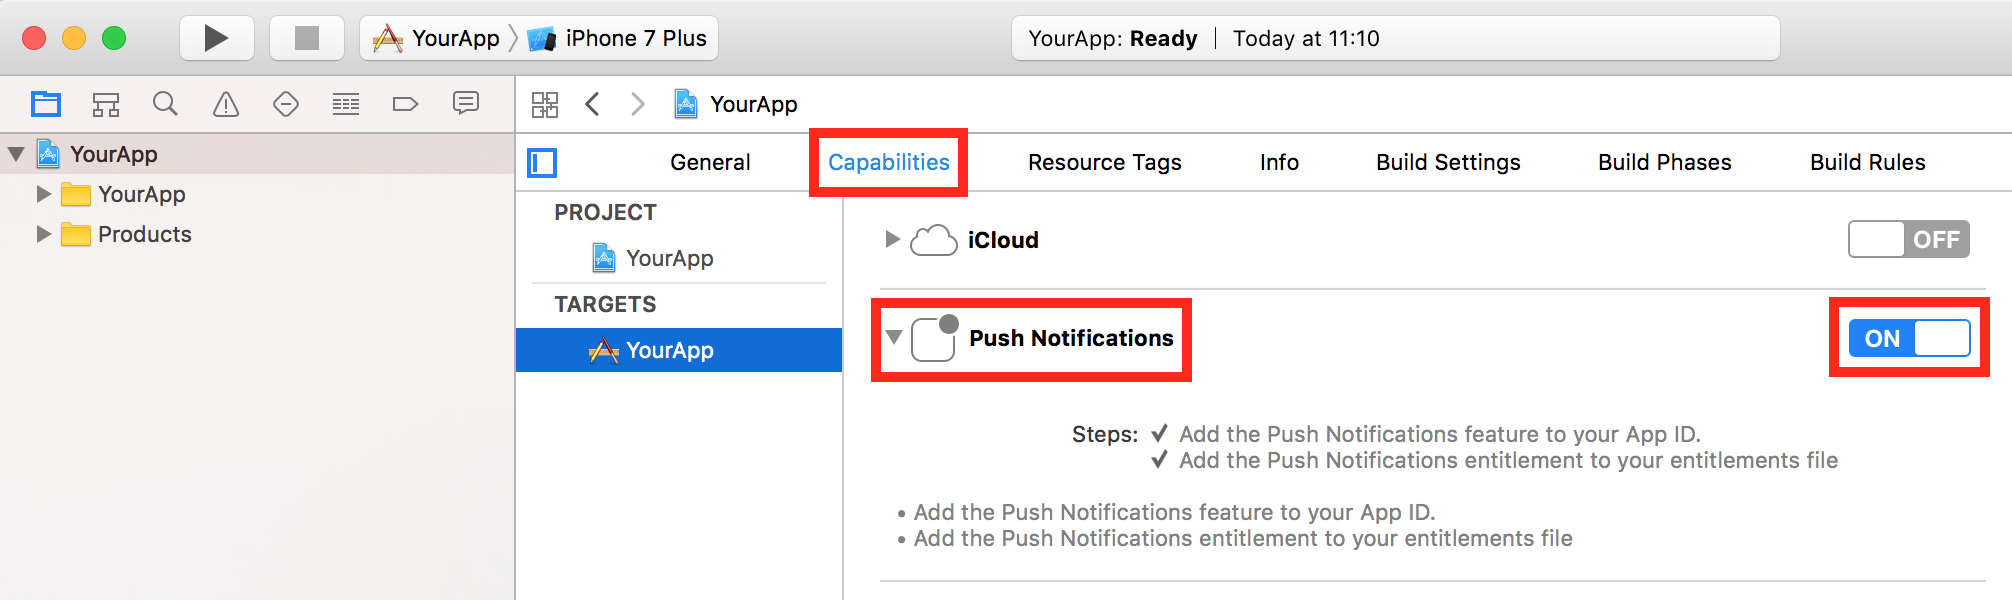
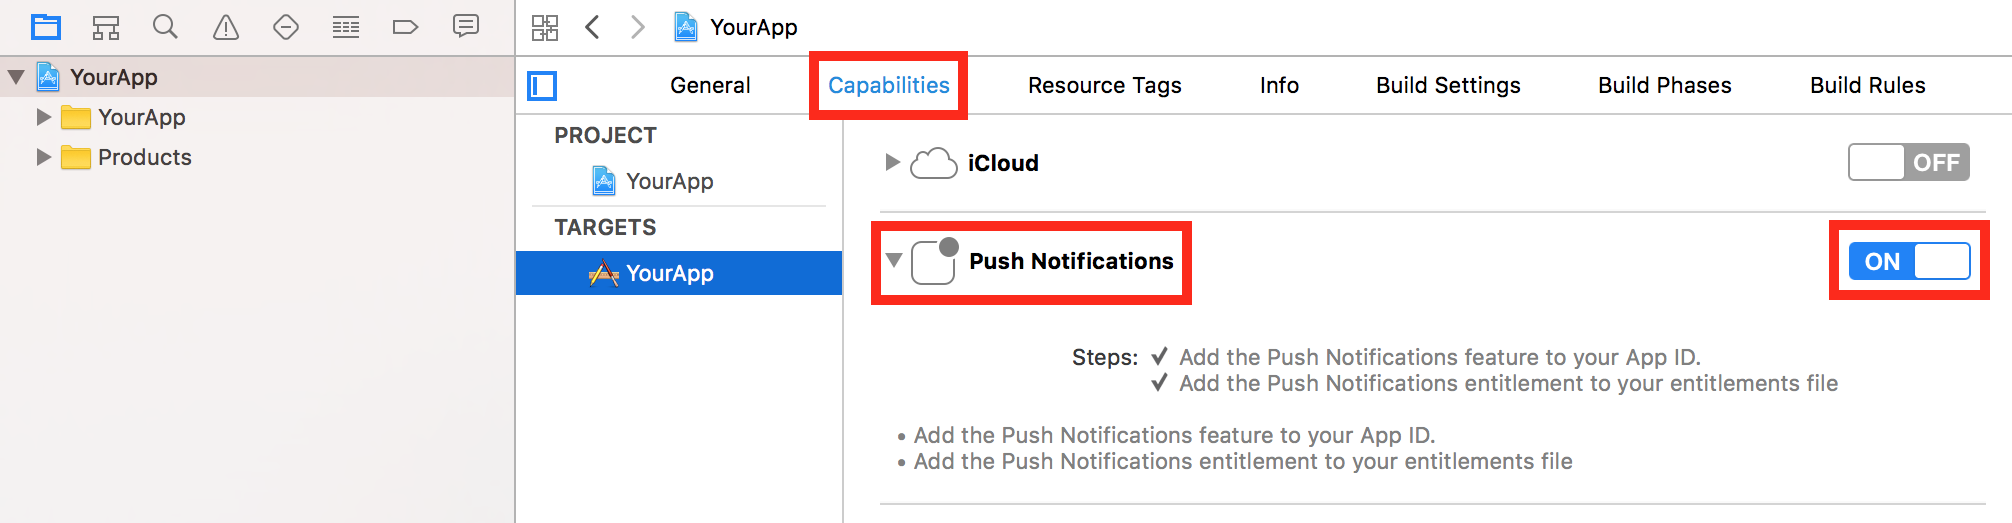
Add Silent notifications doc for iOS (#267)
* Add silent notifications doc for iOS and RN SDKs

* Small fix on silent notifications for iOS + adding silent notifications on Xamarin iOS

* Fix silent notifications doc link

* Crop images in push iOS

* Wording in iOS SDK silent push

* Add details on the push delegate background behavior

* Update push delegate, listener, event doc

* Trying to fix links on iOS push

* Fix links on iOS push

* Elevate iOS push callback triggered twice to note

* Fix + rephrasing iOS push docs

* Fix typo in iOS silent notifications doc

Changed region(s): [[0.0, 0.0, 1.0, 0.6424], [0.4314, 0.673, 0.9245, 0.9178], [0.4314, 0.9484, 0.9861, 0.979]]

diff --git a/vs-mobile-center-docs/sdk/push/ios.md b/vs-mobile-center-docs/sdk/push/ios.md
@@ -43,6 +43,10 @@ Configure Apple Push Notifications service (APNs) for your app from your Apple d
 
 For more information, refer to the [Apple documentation](http://help.apple.com/xcode/mac/current/#/dev11b059073).
 
+#### [Optional] Enable silent notifications
+
+[!include[](ios-enable-silent-notifications.md)]
+
 ## Add Mobile Center Push to your app
 
 ### 1. Add the Mobile Center Push module
@@ -99,7 +103,10 @@ If you or one of your third party libraries already implements `application:didR
 
 ## Customize your usage of Mobile Center Push
 
-You can set up a delegate to be notified whenever a push notification is received in foreground or a background push notification has been clicked by the user.
+You can set up a delegate to be notified whenever a push notification is received in foreground or a background push notification has been tapped by the user. The delegate may also be woken up when a notification is received in background if you have enable [silent notifications](#optional-enable-silent-notifications) and if the payload of the notification contains the [content-available](~/push/index.md#custom-data-in-your-notifications) flag set to true.
+
+>[!NOTE]
+>If silent notifications are enabled and you push a notification with `content-available: 1`, then the delegate may be triggered twice for the same notification: when the notification is received in background and when it is tapped.
 
 By default, iOS does not generate notifications when the push is received in foreground, you can use the delegate to customize the push experience when received in foreground or do a specific action when the application is launched by clicking on the push notification when received in background.
 
@@ -118,26 +125,43 @@ Here is an example of the delegate implementation that displays an alert dialog 
 
 ```objc
 - (void)push:(MSPush *)push didReceivePushNotification:(MSPushNotification *)pushNotification {
+  NSString *title = pushNotification.title;
   NSString *message = pushNotification.message;
+  NSMutableString *customData = nil;
   for (NSString *key in pushNotification.customData) {
-    message = [NSString stringWithFormat:@"%@\n%@: %@", message, key, [pushNotification.customData objectForKey:key]];
+    ([customData length] == 0) ? customData = [NSMutableString new] : [customData appendString:@", "];
+    [customData appendFormat:@"%@: %@", key, [pushNotification.customData objectForKey:key]];
   }
-  UIAlertView *alert = [[UIAlertView alloc] initWithTitle:pushNotification.title
-                                                  message:message
-                                                 delegate:self
-                                        cancelButtonTitle:@"OK"
-                                        otherButtonTitles:nil];
-  [alert show];
+  if (UIApplication.sharedApplication.applicationState == UIApplicationStateBackground) {
+    NSLog(@"Notification received in background, title: \"%@\", message: \"%@\", custom data: \"%@\"", title, message,
+          customData);
+  } else {
+    message = [NSString stringWithFormat:@"%@%@%@", (message ? message : @""), (message && customData ? @"\n" : @""),
+                                         (customData ? customData : @"")];
+    UIAlertView *alert = [[UIAlertView alloc] initWithTitle:title
+                                                    message:message
+                                                   delegate:self
+                                          cancelButtonTitle:@"OK"
+                                          otherButtonTitles:nil];
+    [alert show];
+  }
 }
 ```
 ```swift
 func push(_ push: MSPush!, didReceive pushNotification: MSPushNotification!) {
-  var message: String = pushNotification.message
+  let title: String? = pushNotification.title
+  var message: String = pushNotification.message ?? ""
+  var customData: String = ""
   for item in pushNotification.customData {
-    message = String(format: "%@\n%@: %@", message, item.key, item.value)
+    customData =  ((customData.isEmpty) ? "" : "\(customData), ") + "\(item.key): \(item.value)"
   }
-  let alert = UIAlertView(title: pushNotification.title, message: message, delegate: self, cancelButtonTitle: "OK")
-  alert.show()
+  if (UIApplication.shared.applicationState == .background) {
+    NSLog("Notification received in background, title: \"\(title ?? "")\", message: \"\(message)\", custom data: \"\(customData)\"");
+  } else {
+    message =  message + ((customData.isEmpty) ? "" : "\n\(customData)")
+    let alert = UIAlertView(title: title, message: message, delegate: self, cancelButtonTitle: "OK")
+    alert.show()
+  }
 }
 ```
 

diff --git a/vs-mobile-center-docs/sdk/push/xamarin-ios.md b/vs-mobile-center-docs/sdk/push/xamarin-ios.md
@@ -40,6 +40,11 @@ Double-click the **Entitlements.plist** file in your Xamarin Solution Explorer. 
 
 For more information, refer to the [Xamarin documentation](https://developer.xamarin.com/guides/ios/platform_features/introduction-to-ios10/user-notifications/enhanced-user-notifications/#Configuring-the-Remote-Notifications-Environment).
 
+#### [Optional] Enable silent notifications
+
+Silent notifications give you a way to wake up your app  so that it can refresh its data in the background (see [Xamarin documentation](https://developer.xamarin.com/guides/ios/application_fundamentals/backgrounding/ios_backgrounding_techniques/updating_an_application_in_the_background/#Remote_Notifications_iOS_7_and_Greater)). To enable silent notifications double-click the **Entitlements.plist** file in your Xamarin Solution Explorer. This will open the Entitlements.plist editor. Check **Background modes** then **Remote notifications** checkboxes from the **Background modes** section.
+![enable-silent-notifications](images/xamarin-ios-enable-silent-notifications.png)
+
 ## Add Mobile Center Push to your app
 
 ### 1. Add the Mobile Center Push package
@@ -51,6 +56,11 @@ The Mobile Center SDK is designed with a modular approach – a developer only n
 ### 2. Start Mobile Center Push service
 
 [!include[](start-push.md)]
+
+ The `Push.PushNotificationReceived` event may also be called when a notification is received in background if you have enable [silent notifications](#optional-enable-silent-notifications) and if the payload of the notification contains the [content-available](~/push/index.md#custom-data-in-your-notifications) flag set to true.
+
+ >[!NOTE]
+ >If silent notifications are enabled and you push a notification with `content-available: 1`, then the event may be triggered twice for the same notification: when the notification is received in background and when it is tapped.
 
 >[!NOTE]
 >If your Xamarin.iOS project is part of a [Xamarin.Forms](xamarin-forms.md) application, it is not necessary to add the call to `MobileCenter.Start()` in the Xamarin.iOS portion of the project. The method call can instead be made from the PCL or shared project portion of your Xamarin.Forms application.

diff --git a/vs-mobile-center-docs/sdk/push/react-native-ios.md b/vs-mobile-center-docs/sdk/push/react-native-ios.md
@@ -40,6 +40,10 @@ Configure Apple Push Notifications service (APNs) for your app from your Apple d
 
 For more information, refer to the [Apple documentation](http://help.apple.com/xcode/mac/current/#/dev11b059073).
 
+#### [Optional] Enable silent notifications
+
+[!include[](ios-enable-silent-notifications.md)]
+
 ## Add Mobile Center Push to your app
 
 ### 1. Add the Mobile Center Push module
@@ -91,7 +95,10 @@ If you or one of your third party libraries already implements `application:didR
 
 ## Customize your usage of Mobile Center Push
 
-You can set up a listener to be notified whenever a push notification is received in foreground or a background push notification has been clicked by the user.
+You can set up a listener to be notified whenever a push notification is received in foreground or a background push notification has been tapped by the user. The listener may also be woken up when a notification is received in background if you have enable [silent notifications](#optional-enable-silent-notifications) and if the payload of the notification contains the [content-available](~/push/index.md#custom-data-in-your-notifications) flag set to true.
+
+>[!NOTE]
+>If silent notifications are enabled and you push a notification with `content-available: 1`, then the listener may be triggered twice for the same notification: when the notification is received in background and when it is tapped.
 
 By default, iOS does not generate notifications when the push is received in foreground, you can use the listener to customize the push experience when received in foreground or do a specific action when the application is launched by clicking on the push notification when received in background.
 

diff --git a/vs-mobile-center-docs/sdk/push/ios-enable-silent-notifications.md b/vs-mobile-center-docs/sdk/push/ios-enable-silent-notifications.md
@@ -1,0 +1,3 @@
+Silent notifications give you a way to wake up your app so that it can refresh its data in the background (see [Apple documentation](https://developer.apple.com/library/content/documentation/NetworkingInternet/Conceptual/RemoteNotificationsPG/CreatingtheNotificationPayload.html#//apple_ref/doc/uid/TP40008194-CH10-SW8)). To enable silent notifications open Xcode's project editor, choose your target and click **Capabilities**. Turn on **Background Modes** and check the **Remote notifications** checkbox.
+
+![enable-silent-notifications](images/ios-enable-silent-notifications.png)
